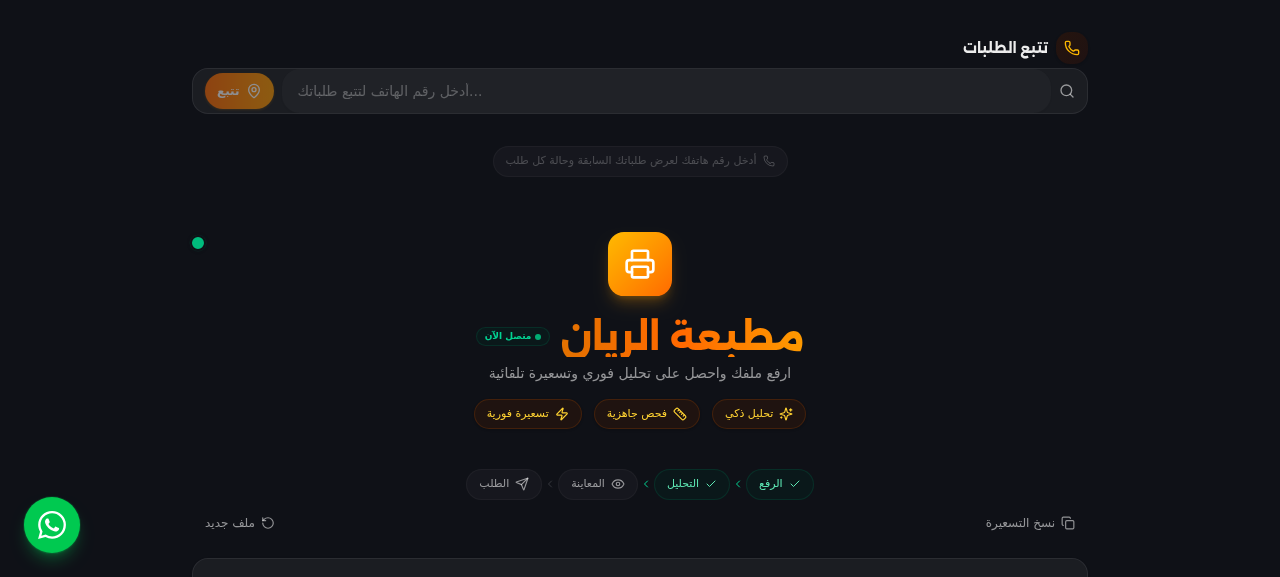
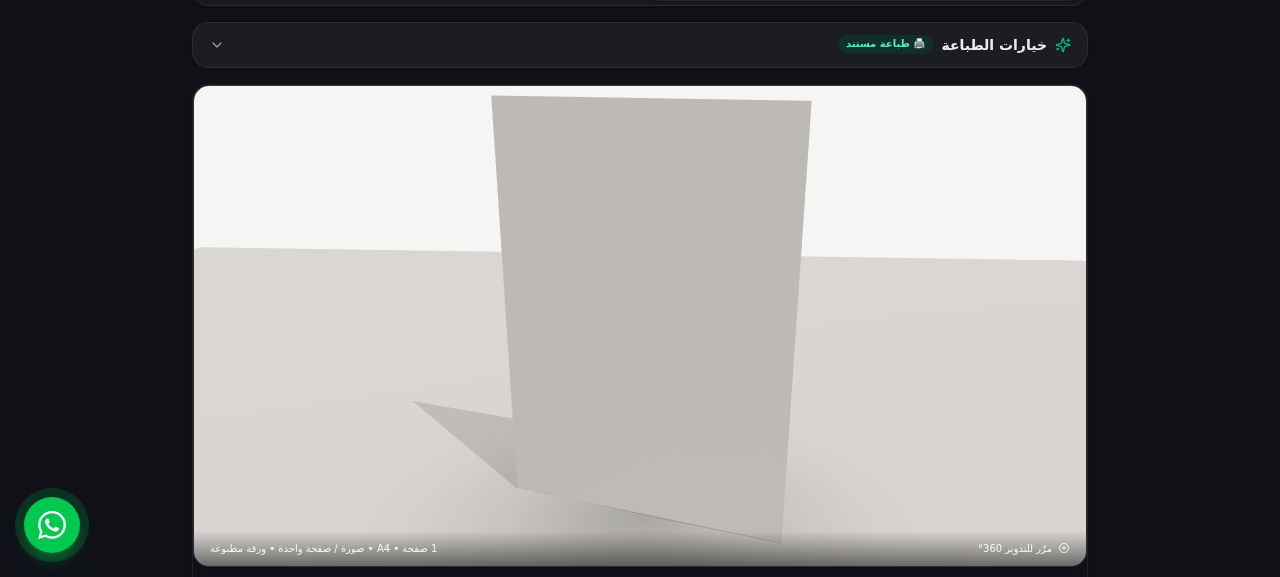
style: accessibility, micro-interactions, touch targets, and UX polish
- ServiceOptionsPanel: active:scale-95 on all buttons, ring on selected, focus-visible rings
- BookMockup3D: 44px min touch targets on mobile, auto-rotate active state, flex-wrap badges
- 3D canvas: min 280px height on narrow mobile (was 224px at 320px)
- Delivery mode: ARIA radiogroup + role=radio + aria-checked semantics
- Spine color: aria-label, active:scale-95, focus-visible, selected color name label
- Share copy: animated Check icon swap with scale bounce
- History items: single delete X button (hover reveal, stopPropagation)
- All interactive buttons: focus-visible:ring-2 ring-offset-2

diff --git a/src/components/customer/standalone-preview.tsx b/src/components/customer/standalone-preview.tsx
@@ -1572,6 +1572,13 @@ export function StandalonePreview() {
                         {item.category === "image" ? "صورة" : item.category === "short-doc" ? "مستند" : "كتاب"}
                       </Badge>
                       <span className="text-[10px] text-muted-foreground shrink-0">{timeAgo(item.timestamp)}</span>
+                      <button
+                        onClick={(e) => { e.stopPropagation(); setRecentUploads(prev => prev.filter(u => u.timestamp !== item.timestamp)); }}
+                        className="opacity-0 group-hover:opacity-100 p-1 rounded-lg hover:bg-rose-100 dark:hover:bg-rose-900/30 text-muted-foreground hover:text-rose-500 transition-all focus-visible:opacity-100 focus-visible:outline-none focus-visible:ring-2 focus-visible:ring-ring"
+                        aria-label="حذف من السجل"
+                      >
+                        <X className="h-3 w-3" />
+                      </button>
                     </motion.button>
                   );
                 })}
@@ -1748,11 +1755,13 @@ export function StandalonePreview() {
                     setTimeout(() => setShareCopied(false), 2000);
                   }).catch(() => {});
                 }}
-                className={`inline-flex items-center gap-1.5 px-3 py-1.5 rounded-xl text-xs font-medium transition-all border ${shareCopied
+                className={`inline-flex items-center gap-1.5 px-3 py-1.5 rounded-xl text-xs font-medium transition-all border active:scale-95 focus-visible:outline-none focus-visible:ring-2 focus-visible:ring-ring focus-visible:ring-offset-2 ${shareCopied
                   ? 'text-emerald-600 dark:text-emerald-400 bg-emerald-50 dark:bg-emerald-950/20 border-emerald-200/50 dark:border-emerald-800/30'
                   : 'text-muted-foreground hover:text-foreground hover:bg-muted/60 border-transparent hover:border-border'}`}
               >
-                <Copy className="h-3.5 w-3.5" />
+                <motion.span animate={shareCopied ? { scale: [1, 1.3, 1] } : {}} transition={{ duration: 0.3 }}>
+                  {shareCopied ? <Check className="h-3.5 w-3.5" /> : <Copy className="h-3.5 w-3.5" />}
+                </motion.span>
                 {shareCopied ? 'تم النسخ!' : 'نسخ التسعيرة'}
               </button>
               <button
@@ -2599,8 +2608,8 @@ export function StandalonePreview() {
                                     <button
                                       key={clr.c || "auto"}
                                       onClick={() => setSpineColor(clr.c)}
-                                      title={clr.label}
-                                      className={`w-6 h-6 rounded-full border-2 transition-all duration-200 hover:scale-110 ${
+                                      aria-label={clr.label}
+                                      className={`w-6 h-6 rounded-full border-2 transition-all duration-200 hover:scale-110 active:scale-95 focus-visible:outline-none focus-visible:ring-2 focus-visible:ring-ring focus-visible:ring-offset-2 ${
                                         spineColor === clr.c
                                           ? "border-violet-500 ring-2 ring-violet-300"
                                           : (clr.c ? `border-muted-foreground/20` : "border-muted-foreground/30 border-dashed")
@@ -2609,6 +2618,7 @@ export function StandalonePreview() {
                                     />
                                   ))}
                                 </div>
+                                {(() => { const sel = [{ c: "", label: "تلقائي" }, { c: "#1a1a2e", label: "كحلي" }, { c: "#8b0000", label: "أحمر" }, { c: "#1a5c2a", label: "أخضر" }, { c: "#1a3a5c", label: "أزرق" }, { c: "#5c4b1a", label: "بني" }].find(cl => cl.c === spineColor); return sel ? <span className="text-[10px] text-muted-foreground/70">{sel.label}</span> : null; })()}
                               </div>
                             )}
                           </div>
@@ -3055,13 +3065,13 @@ export function StandalonePreview() {
                         {/* طريقة الاستلام */}
                         <div className="space-y-1.5">
                           <label className="text-xs font-semibold text-muted-foreground flex items-center gap-1.5"><Truck className="h-3.5 w-3.5" />طريقة الاستلام</label>
-                          <div className="grid grid-cols-2 gap-2">
-                            <button type="button" onClick={() => setDeliveryMode("pickup")} className={`flex flex-col items-center gap-1.5 p-3 rounded-xl border-2 text-center transition-all duration-200 ${deliveryMode === "pickup" ? "border-amber-400 bg-amber-50/60 dark:bg-amber-950/20 shadow-sm" : "border-transparent bg-muted/40 hover:bg-muted/60"}`}>
+                          <div className="grid grid-cols-2 gap-2" role="radiogroup" aria-label="طريقة الاستلام">
+                            <button type="button" role="radio" aria-checked={deliveryMode === "pickup"} onClick={() => setDeliveryMode("pickup")} className={`flex flex-col items-center gap-1.5 p-3 rounded-xl border-2 text-center transition-all duration-200 active:scale-[0.97] focus-visible:outline-none focus-visible:ring-2 focus-visible:ring-ring focus-visible:ring-offset-2 ${deliveryMode === "pickup" ? "border-amber-400 bg-amber-50/60 dark:bg-amber-950/20 shadow-sm" : "border-transparent bg-muted/40 hover:bg-muted/60"}`}>
                               <Printer className={`h-5 w-5 ${deliveryMode === "pickup" ? "text-amber-600 dark:text-amber-400" : "text-muted-foreground"}`} />
                               <span className={`text-xs font-semibold ${deliveryMode === "pickup" ? "text-amber-700 dark:text-amber-300" : "text-muted-foreground"}`}>استلام من المطبعة</span>
                               <span className="text-[9px] text-muted-foreground">مجاني</span>
                             </button>
-                            <button type="button" onClick={() => setDeliveryMode("delivery")} className={`flex flex-col items-center gap-1.5 p-3 rounded-xl border-2 text-center transition-all duration-200 ${deliveryMode === "delivery" ? "border-amber-400 bg-amber-50/60 dark:bg-amber-950/20 shadow-sm" : "border-transparent bg-muted/40 hover:bg-muted/60"}`}>
+                            <button type="button" role="radio" aria-checked={deliveryMode === "delivery"} onClick={() => setDeliveryMode("delivery")} className={`flex flex-col items-center gap-1.5 p-3 rounded-xl border-2 text-center transition-all duration-200 active:scale-[0.97] focus-visible:outline-none focus-visible:ring-2 focus-visible:ring-ring focus-visible:ring-offset-2 ${deliveryMode === "delivery" ? "border-amber-400 bg-amber-50/60 dark:bg-amber-950/20 shadow-sm" : "border-transparent bg-muted/40 hover:bg-muted/60"}`}>
                               <Truck className={`h-5 w-5 ${deliveryMode === "delivery" ? "text-amber-600 dark:text-amber-400" : "text-muted-foreground"}`} />
                               <span className={`text-xs font-semibold ${deliveryMode === "delivery" ? "text-amber-700 dark:text-amber-300" : "text-muted-foreground"}`}>توصيل</span>
                               <span className="text-[9px] text-muted-foreground">يتم الاتفاق على التكلفة</span>

diff --git a/src/components/customer/book-mockup-3d.tsx b/src/components/customer/book-mockup-3d.tsx
@@ -1289,7 +1289,7 @@ export function BookMockup3D({
         <div
           ref={containerRef}
           className="w-full bg-gradient-to-b from-stone-100 to-stone-200 dark:from-stone-900 dark:to-stone-950"
-          style={{ height: "min(480px, 70vw)" }}
+          style={{ height: "min(480px, max(280px, 70vw))" }}
         />
 
         {(status === "loading" || status === "cover-loading") && (
@@ -1338,7 +1338,7 @@ export function BookMockup3D({
           </div>
         )}
 
-        <div className="absolute bottom-0 inset-x-0 px-4 py-2.5 bg-gradient-to-t from-black/60 via-black/30 to-transparent text-white/90 text-[10px] flex items-center justify-between z-10">
+        <div className="absolute bottom-0 inset-x-0 px-3 py-2.5 bg-gradient-to-t from-black/60 via-black/30 to-transparent text-white/90 text-[10px] flex items-center justify-center gap-1.5 flex-wrap z-10">
           <span className="flex items-center gap-1.5">
             <svg className="h-3 w-3" viewBox="0 0 24 24" fill="none" stroke="currentColor" strokeWidth={2}><path d="M12 3C7 3 3 7 3 12s4 9 9 9 9-4 9-9-4-9-9-9z" /><path d="M12 8v8M8 12h8" /></svg>
             مرّر للتدوير 360°
@@ -1370,18 +1370,19 @@ export function BookMockup3D({
       {status === "ready" && (
         <>
           <div className="flex items-center justify-center gap-2 flex-wrap">
-            <button onClick={toggleAutoRotate} className="flex items-center gap-1.5 px-3 py-1.5 rounded-lg border text-xs font-medium text-muted-foreground hover:text-foreground hover:bg-muted transition-all">
+            <button onClick={toggleAutoRotate} aria-pressed={ctrl.autoRotate} className={`flex items-center gap-1.5 min-w-[44px] min-h-[44px] sm:min-w-0 sm:min-h-0 px-3 py-1.5 rounded-lg border text-xs font-medium transition-all active:scale-95 focus-visible:outline-none focus-visible:ring-2 focus-visible:ring-ring focus-visible:ring-offset-2 ${ctrl.autoRotate ? 'bg-amber-100 dark:bg-amber-900/30 border-amber-300 dark:border-amber-700 text-amber-700 dark:text-amber-300' : 'text-muted-foreground hover:text-foreground hover:bg-muted'}`}>
               <svg className="h-3.5 w-3.5" viewBox="0 0 24 24" fill="none" stroke="currentColor" strokeWidth={2}><path d="M1 4v6h6" /><path d="M3.51 15a9 9 0 1 0 2.13-9.36L1 10" /></svg>
               تدوير تلقائي
             </button>
-            <button onClick={resetCamera} className="flex items-center gap-1.5 px-3 py-1.5 rounded-lg border text-xs font-medium text-muted-foreground hover:text-foreground hover:bg-muted transition-all">
+            <button onClick={resetCamera} aria-label="إعادة تعيين الكاميرا" className="flex items-center gap-1.5 min-w-[44px] min-h-[44px] sm:min-w-0 sm:min-h-0 px-3 py-1.5 rounded-lg border text-xs font-medium text-muted-foreground hover:text-foreground hover:bg-muted transition-all active:scale-95 focus-visible:outline-none focus-visible:ring-2 focus-visible:ring-ring focus-visible:ring-offset-2">
               <svg className="h-3.5 w-3.5" viewBox="0 0 24 24" fill="none" stroke="currentColor" strokeWidth={2}><path d="M3 12a9 9 0 1 0 9-9 9.75 9.75 0 0 0-6.74 2.74L3 8" /><path d="M3 3v5h5" /></svg>
               إعادة تعيين
             </button>
             {isPdfMultiPage && (
               <button
                 onClick={() => onBrowsePages?.()}
-                className="flex items-center gap-1.5 px-3 py-1.5 rounded-lg border text-xs font-medium text-muted-foreground hover:text-foreground hover:bg-muted transition-all"
+                className="flex items-center gap-1.5 min-w-[44px] min-h-[44px] sm:min-w-0 sm:min-h-0 px-3 py-1.5 rounded-lg border text-xs font-medium text-muted-foreground hover:text-foreground hover:bg-muted transition-all active:scale-95 focus-visible:outline-none focus-visible:ring-2 focus-visible:ring-ring focus-visible:ring-offset-2"
+                aria-label="تصفح الصفحات"
               >
                 <svg className="h-3.5 w-3.5" viewBox="0 0 24 24" fill="none" stroke="currentColor" strokeWidth={2}><path d="M2 3h6a4 4 0 0 1 4 4v14a3 3 0 0 0-3-3H2z" /><path d="M22 3h-6a4 4 0 0 0-4 4v14a3 3 0 0 1 3-3h7z" /></svg>
                 تصفح الصفحات
@@ -1391,7 +1392,9 @@ export function BookMockup3D({
             {category === "book" && (
               <button
                 onClick={toggleClearCover}
-                className={`flex items-center gap-1.5 px-3 py-1.5 rounded-lg border text-xs font-medium transition-all ${showClearCover ? "bg-sky-100 dark:bg-sky-900/30 border-sky-300 dark:border-sky-700 text-sky-700 dark:text-sky-300" : "text-muted-foreground hover:text-foreground hover:bg-muted"}`}
+                className={`flex items-center gap-1.5 min-w-[44px] min-h-[44px] sm:min-w-0 sm:min-h-0 px-3 py-1.5 rounded-lg border text-xs font-medium transition-all active:scale-95 focus-visible:outline-none focus-visible:ring-2 focus-visible:ring-ring focus-visible:ring-offset-2 ${showClearCover ? "bg-sky-100 dark:bg-sky-900/30 border-sky-300 dark:border-sky-700 text-sky-700 dark:text-sky-300" : "text-muted-foreground hover:text-foreground hover:bg-muted"}`}
+                aria-pressed={showClearCover}
+                aria-label="غلاف بلاستيكي شفاف"
               >
                 <svg className="h-3.5 w-3.5" viewBox="0 0 24 24" fill="none" stroke="currentColor" strokeWidth={2}><rect x="2" y="6" width="20" height="12" rx="2" /><path d="M12 6v12" /></svg>
                 غلاف بلاستيكي

diff --git a/src/components/customer/service-options-panel.tsx b/src/components/customer/service-options-panel.tsx
@@ -504,8 +504,9 @@ function OptionCard({ option, isSelected, onSelect, colors, compact }: OptionCar
       onClick={onSelect}
       className={`
         flex flex-col items-center gap-0.5 py-2.5 px-2 rounded-xl text-[10px] transition-all duration-200 text-center
-        ${isSelected ? colors.active : colors.inactive}
+        ${isSelected ? colors.active + ' ring-2 ring-offset-1 ring-current/20 shadow-sm' : colors.inactive + ' hover:shadow-sm'}
         ${compact ? "py-2 px-1.5" : ""}
+        active:scale-95 focus-visible:outline-none focus-visible:ring-2 focus-visible:ring-ring focus-visible:ring-offset-2
       `}
     >
       {option.emoji && <span className="text-base leading-none">{option.emoji}</span>}
@@ -539,7 +540,8 @@ function OptionRow({ option, isSelected, onSelect, colors }: OptionRowProps) {
       onClick={onSelect}
       className={`
         w-full flex items-center gap-3 px-3 py-2.5 rounded-xl text-xs transition-all duration-200 text-right
-        ${isSelected ? colors.active : "border border-transparent hover:bg-muted text-muted-foreground hover:text-foreground"}
+        ${isSelected ? colors.active + ' shadow-sm' : "border border-transparent hover:bg-muted text-muted-foreground hover:text-foreground"}
+        active:scale-[0.98] focus-visible:outline-none focus-visible:ring-2 focus-visible:ring-ring focus-visible:ring-offset-2
       `}
     >
       {option.emoji && <span className="text-base shrink-0">{option.emoji}</span>}
@@ -589,7 +591,7 @@ function QuickPicks({ spec, onApply, colors }: QuickPicksProps) {
         {spec.quickPicks.economic && (
           <button
             onClick={() => onApply(spec.quickPicks!.economic!)}
-            className={`flex flex-col items-center gap-1 py-2.5 px-3 rounded-xl text-[11px] transition-all duration-200 border hover:bg-muted ${colors.inactive}`}
+            className={`flex flex-col items-center gap-1 py-2.5 px-3 rounded-xl text-[11px] transition-all duration-200 border hover:bg-muted hover:shadow-sm ${colors.inactive} active:scale-95 focus-visible:outline-none focus-visible:ring-2 focus-visible:ring-ring focus-visible:ring-offset-2`}
           >
             <span className="text-base">💰</span>
             <span className="font-medium">اقتصادي</span>
@@ -599,7 +601,7 @@ function QuickPicks({ spec, onApply, colors }: QuickPicksProps) {
         {spec.quickPicks.premium && (
           <button
             onClick={() => onApply(spec.quickPicks!.premium!)}
-            className={`flex flex-col items-center gap-1 py-2.5 px-3 rounded-xl text-[11px] transition-all duration-200 border hover:bg-muted ${colors.inactive}`}
+            className={`flex flex-col items-center gap-1 py-2.5 px-3 rounded-xl text-[11px] transition-all duration-200 border hover:bg-muted hover:shadow-sm ${colors.inactive} active:scale-95 focus-visible:outline-none focus-visible:ring-2 focus-visible:ring-ring focus-visible:ring-offset-2`}
           >
             <span className="text-base">💎</span>
             <span className="font-medium">فاخر</span>
